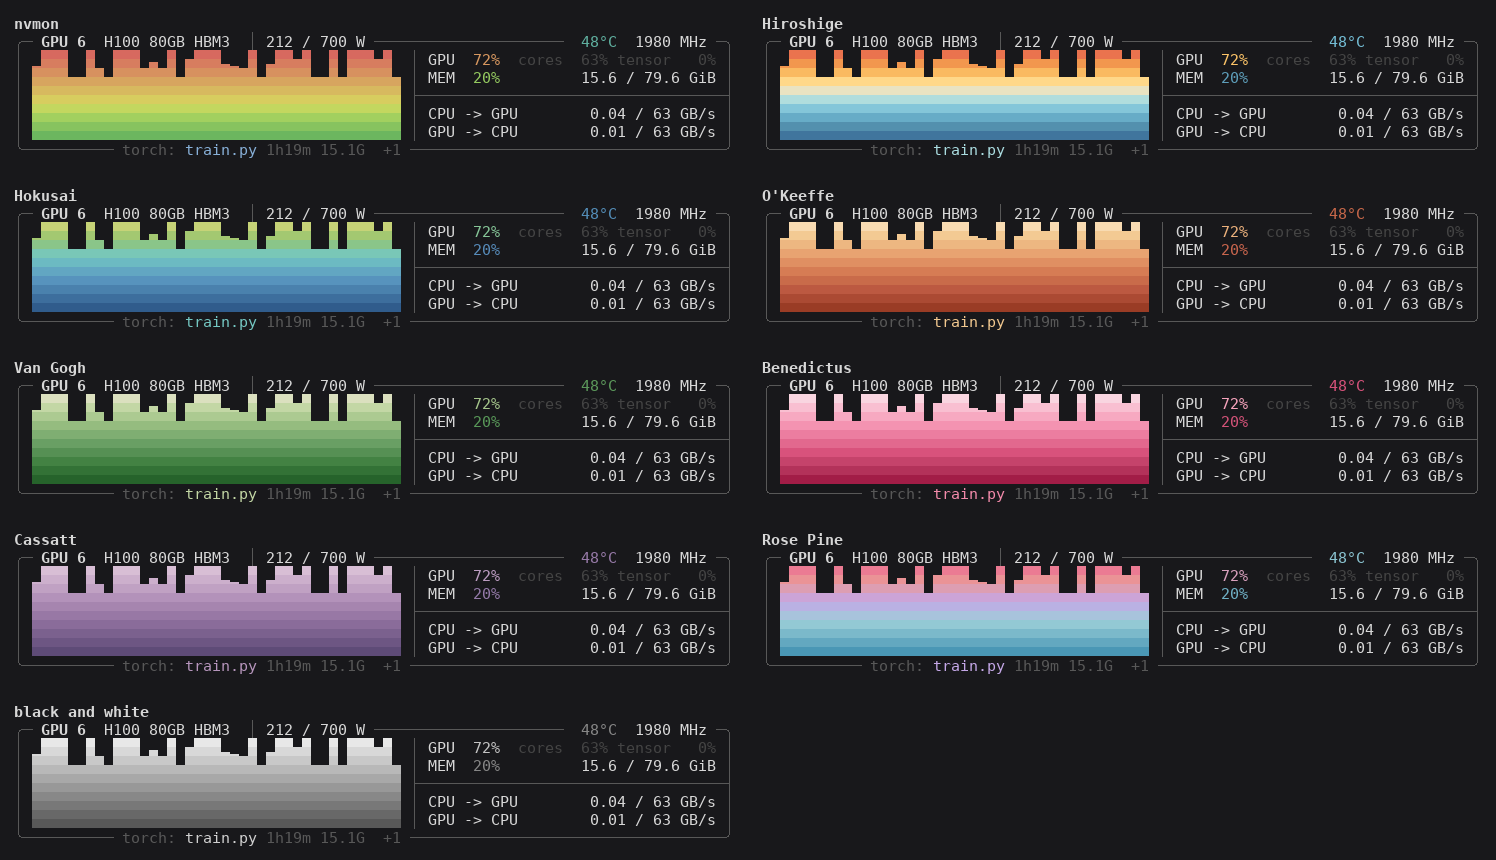
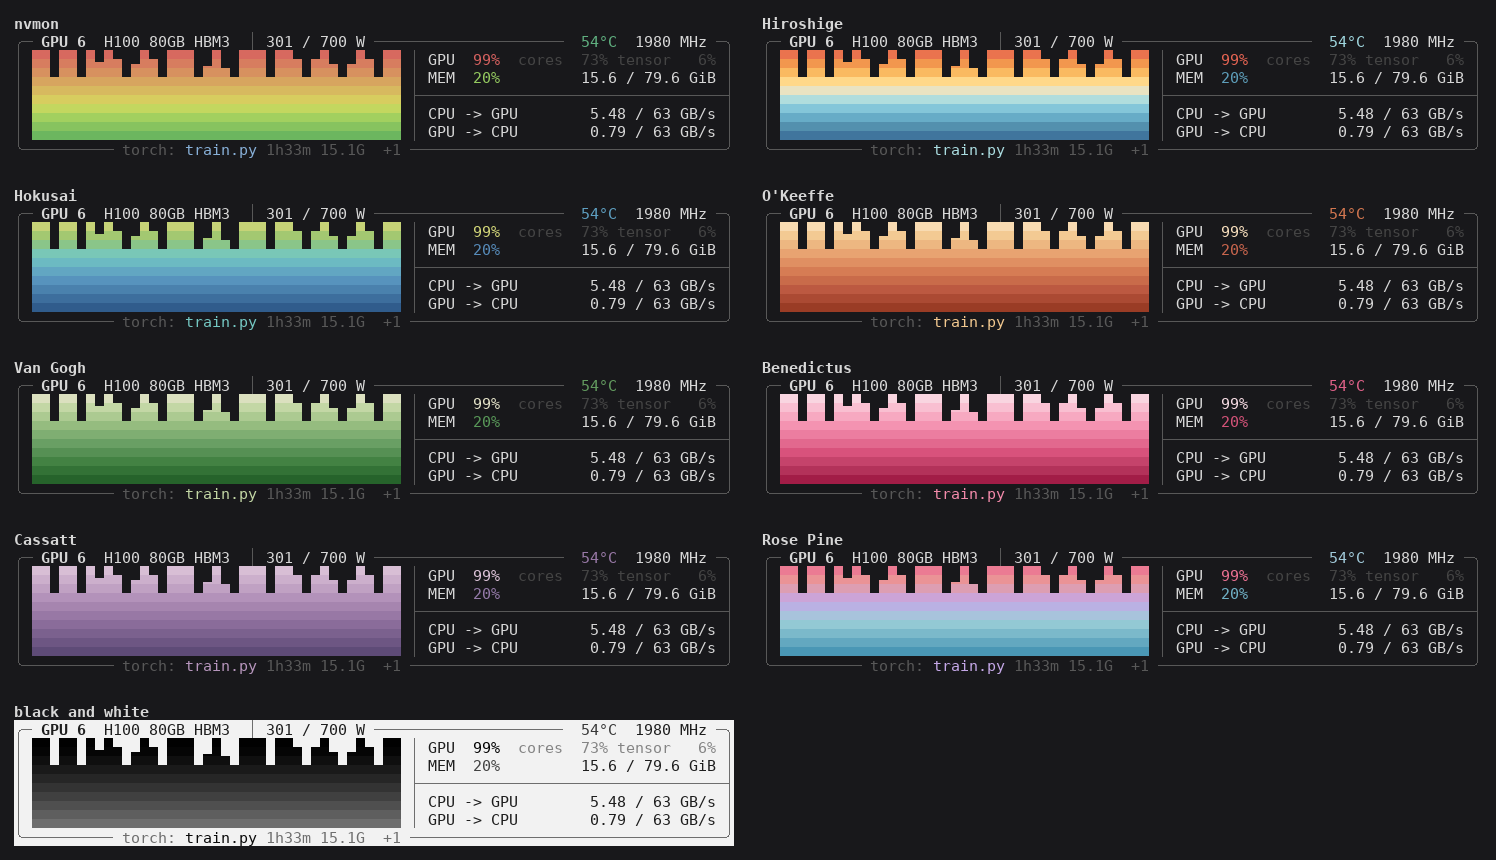
Black on white; a README that shows each view and the process list
The black and white theme puts every cell on white paper in ink, each color the gray of its lightness turned around. The README walks through a box, the four views, jobs and the process list with stills, the themes, and has a table of every key; docs/demo.py takes those stills, the version as released, and keeps one GIF.

diff --git a/docs/demo.py b/docs/demo.py
@@ -1,5 +1,5 @@
-"""Record nvmon on this machine's GPUs and write the README's GIFs, one per window size, and a picture of
-its themes:
+"""Record nvmon on this machine's GPUs and write the README's pictures: a GIF, stills
+of its views and of the process list, and one of its themes:
 
     uv run --with pillow docs/demo.py [SECONDS]
 
@@ -17,9 +17,28 @@ from PIL import Image, ImageDraw, ImageFont
 sys.path.insert(0, os.path.join(os.path.dirname(os.path.abspath(__file__)), ".."))
 import nvmon  # noqa: E402
 
-# (file, columns, rows, what is on: "list" = the process list with a job picked, "cards" = the processes in place of the graphs)
-SIZES = [("demo-wide.gif", 160, 31, None), ("demo-small.gif", 100, 30, None), ("demo-list.gif", 160, 56, "list"),
-         ("demo-cards.gif", 160, 31, "cards")]
+SIZES = [("demo-wide.gif", 160, 31)]  # (file, columns, rows)
+
+
+def biggest_job(view):
+    """The job most worth showing: one with a launcher (torchrun), the most memory."""
+    return max(view.jobs, key=lambda job: (job.launcher is not None, job.mem)).pid
+
+
+def listing(view):
+    view.listing, view.job, view.sort = True, biggest_job(view), ("util", True)
+
+
+def focus(view):
+    view.job, view.only = biggest_job(view), True
+
+
+# (file, columns, rows, what is set on the view)
+STILLS = [("view-processes.png", 160, 31, lambda view: setattr(view, "left", "processes")),
+          ("view-numbers.png", 160, 31, lambda view: setattr(view, "left", "numbers")),
+          ("view-brief.png", 160, 31, lambda view: setattr(view, "left", "brief")),
+          ("list.png", 160, 48, listing),
+          ("focus.png", 160, 31, focus)]
 FONT = "/usr/share/fonts/truetype/dejavu/DejaVuSansMono{}.ttf"
 CELL_W, CELL_H, PAD, SIZE = 9, 18, 14, 15
 BG, FG = (24, 24, 27), (215, 215, 215)
@@ -47,6 +66,7 @@ def anonymize():
 
     nvmon.Gpu._facts_of = facts
     nvmon.socket.gethostname = lambda: "gpu-node"
+    nvmon.__version__ = nvmon.__version__.split("+")[0]  # as released, not "+dev"
 
 
 def record(seconds, warm_up=70):
@@ -64,16 +84,10 @@ def record(seconds, warm_up=70):
         if tick < 0:
             time.sleep(max(0, 0.5 - (time.monotonic() - start)))
             continue
-        for name, cols, rows, mode in SIZES:
-            view = views[name]
-            if mode == "list" and tick == 0:  # the list open, the biggest job with a launcher picked
-                view.screen(gpus, cols, rows, [], None)
-                view.listing = True
-                view.job = max(view.jobs, key=lambda job: (job.launcher is not None, job.mem)).pid
-            view.left = "processes" if mode == "cards" else "graph"
-            frames[name].append(view.screen(gpus, cols, rows, nvmon.header(cols, 0.5, driver), None))
+        for name, cols, rows in SIZES:
+            frames[name].append(views[name].screen(gpus, cols, rows, nvmon.header(cols, 0.5, driver), None))
         time.sleep(max(0, 0.5 - (time.monotonic() - start)))
-    return frames, gpus
+    return frames, gpus, driver
 
 
 def palette256(n):
@@ -135,7 +149,7 @@ def picture(lines, cols, rows, fonts):
         for seg in line:
             text, style = seg[0], seg[1]
             fg, bg, bold = colors(style)
-            if bg != BG:
+            if bg != BG and text:
                 draw.rectangle([x0 + col * CELL_W, y, x0 + (col + len(text)) * CELL_W - 1, y + CELL_H - 1], fill=bg)
             for i, ch in enumerate(text):
                 x = x0 + (col + i) * CELL_W
@@ -170,18 +184,29 @@ def gallery(gpu, fonts, width=80):
     return image
 
 
+def stills(gpus, driver, fonts, here):
+    for name, cols, rows, setup in STILLS:
+        view = nvmon.View()
+        view.screen(gpus, cols, rows, [], None)  # the jobs, for setup to pick from
+        setup(view)
+        lines = view.screen(gpus, cols, rows, nvmon.header(cols, 0.5, driver), None)
+        picture(lines, cols, rows, fonts).save(os.path.join(here, name), optimize=True)
+        print(name, os.path.getsize(os.path.join(here, name)) // 1024, "KB")
+
+
 def main():
     seconds = float(sys.argv[1]) if len(sys.argv) > 1 else 20
     anonymize()
-    frames, gpus = record(seconds)
+    frames, gpus, driver = record(seconds)
     fonts = {False: ImageFont.truetype(FONT.format(""), SIZE), True: ImageFont.truetype(FONT.format("-Bold"), SIZE)}
     here = os.path.dirname(os.path.abspath(__file__))
-    for name, cols, rows, _ in SIZES:
+    for name, cols, rows in SIZES:
         pictures = [picture(lines, cols, rows, fonts) for lines in frames[name]]
         pictures = [p.quantize(colors=128, method=Image.Quantize.MEDIANCUT) for p in pictures]
         pictures[0].save(os.path.join(here, name), save_all=True, append_images=pictures[1:], duration=500,
                          loop=0, optimize=True)
         print(name, os.path.getsize(os.path.join(here, name)) // 1024, "KB")
+    stills(gpus, driver, fonts, here)
     busiest = max(gpus, key=lambda gpu: sum(gpu.history))
     gallery(busiest, fonts).save(os.path.join(here, "themes.png"), optimize=True)
     print("themes.png", os.path.getsize(os.path.join(here, "themes.png")) // 1024, "KB")

diff --git a/nvmon.py b/nvmon.py
@@ -83,14 +83,17 @@ def _nearest256(rgb):
 
 
 # Styles are written in 24-bit color and turned, as they are sent (restyle), into what the terminal shows:
-# 24-bit color or 256 colors, as color_mode finds; in gray, as the black and white theme has it.
+# 24-bit color or 256 colors, as color_mode finds; in gray, as the black and white theme has it: black on
+# white, every cell on PAPER in INK, every color the gray of its lightness turned around.
+PAPER, INK = (242, 242, 242), (30, 30, 30)
 COLOR_ARG = re.compile(r"\x1b\[([34])8;(?:2;(\d+);(\d+);(\d+)|5;(\d+))m")
 
 
 @lru_cache(maxsize=None)
 def restyle(style, mode, gray=False):
-    """`style` in color `mode`: "256" turns 24-bit colors into the palette's nearest. With `gray`, every color
-    first becomes the gray as light as it (OKLab lightness): the hue goes, the lightness stays."""
+    """`style` in color `mode`: "256" turns 24-bit colors into the palette's nearest. With `gray`, on PAPER
+    in INK, and every color first the gray as dark as it was light (OKLab lightness turned around): light
+    text on the dark screen becomes dark on the white one, and the busiest bars the darkest."""
     if mode == "truecolor" and not gray:
         return style
 
@@ -100,11 +103,15 @@ def restyle(style, mode, gray=False):
             return m.group(0)
         rgb = _palette_rgb(int(code)) if code else tuple(int(v) for v in m.group(2, 3, 4))
         if gray:
-            rgb = _from_oklab((_oklab(rgb)[0], 0, 0))
+            rgb = _from_oklab((1 - _oklab(rgb)[0], 0, 0))
+        return color(layer, rgb)
+
+    def color(layer, rgb):
         if mode == "256":
             return "\x1b[{}8;5;{}m".format(layer, _nearest256(rgb))
         return "\x1b[{}8;2;{};{};{}m".format(layer, *rgb)
-    return COLOR_ARG.sub(swap, style)
+    style = COLOR_ARG.sub(swap, style)
+    return color("4", PAPER) + color("3", INK) + style if gray else style
 
 
 def color_mode(truecolor):
@@ -162,7 +169,7 @@ class Theme(NamedTuple):
     temp: tuple       # style codes for 0 .. 100 °C
     accent: str
     selected: str     # the picked job: reverse video on the accent
-    gray: bool        # black and white: paint turns every color gray, as light as it was
+    gray: bool        # black on white: see restyle
 
 
 def theme(name, stops, accent, temp=None, gray=False):
@@ -201,7 +208,7 @@ THEMES = [
     theme("Cassatt", "#574571 #90719f #b695bc #dec5da", "#b695bc"),
     theme("Rose Pine", "#3e8fb0 #9ccfd8 #c4a7e7 #ea9a97 #eb6f92", "#c4a7e7"),
 ]
-# No hue, only lightness: dark gray when idle to near white when busy.
+# No hue, only lightness, black on white (see restyle): the lightest when idle, near black when busy.
 THEMES.append(theme("black and white", "#505050 #f0f0f0", "#d0d0d0", gray=True))
 THEME = THEMES[0]  # the one in use, set by View.screen before it draws
 SHOWS = "truecolor"  # what the terminal shows (color_mode), set with it

diff --git a/README.md b/README.md
@@ -4,30 +4,17 @@ A fancy NVIDIA GPU monitor for the terminal. Single Python file, no dependencies
 
 ![nvmon showing eight H100 GPUs in two columns](https://raw.githubusercontent.com/Han-DongHeun/nvmon/main/docs/demo-wide.gif)
 
-It fits the window. In a small one the boxes get shorter, and scroll once they no longer fit:
-
-![nvmon in a small window, scrolling through the GPUs](https://raw.githubusercontent.com/Han-DongHeun/nvmon/main/docs/demo-small.gif)
-
-`p` lists every job; a picked one stands out on the GPUs it uses:
-
-![nvmon with the process list open and a torchrun job picked](https://raw.githubusercontent.com/Han-DongHeun/nvmon/main/docs/demo-list.gif)
-
-`v` goes from graphs to each GPU's processes in their place, one a line with the command, to the
-numbers alone, to GPU and MEM alone. The wheel scrolls the processes, sideways too (tilted, with Shift, or ← →):
-
-![nvmon with the processes in place of the graphs](https://raw.githubusercontent.com/Han-DongHeun/nvmon/main/docs/demo-cards.gif)
-
 ## Install
 
 ```bash
 uv tool install nvmon    # or: pipx install nvmon
 ```
 
-No uv? [Install it](https://docs.astral.sh/uv/getting-started/installation/), or use `pip install nvmon` inside whichever environment you use.
+No uv? [Install it](https://docs.astral.sh/uv/getting-started/installation/), or use `pip install nvmon`
+inside whichever environment you use. On a server without internet, copy `nvmon.py` over and run it with
+any Python 3.6+.
 
-On a server without internet, copy `nvmon.py` over and run it with any Python 3.6+.
-
-## Usage
+## Start
 
 ```bash
 nvmon              # Esc, q or Ctrl+C to quit
@@ -36,44 +23,110 @@ nvmon -g 0,2,4-7   # only these GPUs
 ssh -t HOST nvmon  # over ssh: -t gives it a terminal
 ```
 
-Click a process, or press Tab, to pick its job: the GPUs it uses stand out, and `f` shows only those.
-`t` asks the job to stop (SIGTERM: it may save and exit), `k` ends it at once (SIGKILL); both ask for a
-`y` first. `p` lists every job with its utilization and command line; click a heading to sort by it.
-Click an empty spot to let the job go and close the list.
+## Reading a box
 
-The GPU numbers at the bottom left hide a GPU when clicked, and show it again; so does the number's
-key. `v` goes through graphs, processes, numbers only and GPU and MEM only (`V` back). `c` goes through the themes (`C` back): nvmon's own, then palettes
-from works by Hiroshige, Hokusai, O'Keeffe, Van Gogh, Bénédictus and Cassatt (as [MetBrewer](https://github.com/BlakeRMills/MetBrewer)
-has them) and the [Rosé Pine](https://rosepinetheme.com) theme's, then black and white. The theme,
-graphs on or off, the list's order and the GPUs hidden stay for the next run, for each computer you
-connect from (in `~/.config/nvmon/settings.json`). The keys work with a Korean keyboard in Hangul mode
-too (ㅂ quits). Hold Shift to select text with the mouse.
+Each GPU gets a box:
+
+- **Top edge**: the GPU's number and name, power drawn against its limit, temperature, fan and clock.
+  Warnings show here only when something is off: `SLOWED: power cap | too hot | hw brake` when the clock
+  is held back, `PCIe DEGRADED: x16 -> x8` when the card runs on fewer lanes than it supports.
+- **Graph**: utilization over time, the newest on the right, 0 % at the bottom and 100 % at the top.
+- **GPU**: how much of the time something ran on it. **cores / tensor** (H100 and newer): how much of
+  the chip that work kept busy, and how much of it was matrix math on the Tensor Cores. A GPU reads
+  100 % as soon as one small kernel runs all the time, while its cores may sit at 30 %.
+- **MEM**: memory in use. **CPU -> GPU** and **GPU -> CPU**: data sent over PCIe, against the link's
+  top speed.
+- **Bottom edge**: the processes on the GPU with run time and memory, grouped by account and conda
+  environment (your own account unlabelled). `+` opens the process list at this GPU.
+
+The bottom line has the GPU numbers (click one, or press its key, to hide that GPU or show it again)
+and the keys; a newer release, when there is one, with the command that updates your install.
+
+## Views: `v`
+
+`v` goes through four views, `V` back. The boxes go one under the other, side by side only when they
+would not all fit; in a small window they get shorter, then scroll (wheel, PgUp/PgDn).
+
+**Graphs**, as above.
+
+**Processes** in the graph's place, one a line: account, run time, memory, and the command line. The
+wheel over them scrolls them up and down; tilted, or with Shift, sideways, as do ← and →.
+
+![nvmon with each GPU's processes in place of its graph](https://raw.githubusercontent.com/Han-DongHeun/nvmon/main/docs/view-processes.png)
+
+**Numbers only**, and **GPU and MEM only**, for many GPUs in little room:
+
+![nvmon with the numbers alone](https://raw.githubusercontent.com/Han-DongHeun/nvmon/main/docs/view-numbers.png)
+
+![nvmon with GPU and MEM alone](https://raw.githubusercontent.com/Han-DongHeun/nvmon/main/docs/view-brief.png)
+
+## Processes and jobs: `p`
+
+A **job** is what runs as one: a launcher's workers (torchrun, deepspeed…) count as one job, a process on
+its own is one too.
+
+- **Pick** a job: click one of its processes, or press Tab (Tab and the arrows go on to the next). The
+  GPUs it uses stand out, the others fade, and the bottom line tells about it: account, GPUs,
+  utilization, memory, run time, launcher.
+- `f` shows only the GPUs the picked job uses, `f` again all of them; a double click does the same.
+- `p` lists every job: PID, account, GPUs, utilization, memory, run time, command line. Click a heading
+  to sort by it, again the other way round (or `s` for the next heading, `r` to reverse). ← and →
+  scroll the picked job's command. Click an empty spot, or press Esc, to let go.
+- `t` asks a job of yours to stop (SIGTERM: it may save and exit), `k` ends it at once (SIGKILL); both
+  ask for a `y` first, and nvmon checks the job is still the one you picked.
+
+The list, with the busiest job first and one picked:
+
+![nvmon with the process list open and a torchrun job picked](https://raw.githubusercontent.com/Han-DongHeun/nvmon/main/docs/list.png)
+
+The same job with `f`, its GPUs only:
+
+![nvmon showing only the two GPUs of the picked job](https://raw.githubusercontent.com/Han-DongHeun/nvmon/main/docs/focus.png)
+
+## Themes: `c`
+
+`c` goes through the themes, `C` back: nvmon's own; palettes from works by Hiroshige, Hokusai, O'Keeffe,
+Van Gogh, Bénédictus and Cassatt (as [MetBrewer](https://github.com/BlakeRMills/MetBrewer) has them);
+the [Rosé Pine](https://rosepinetheme.com) theme's; and black on white.
 
 ![nvmon's themes, one box in each](https://raw.githubusercontent.com/Han-DongHeun/nvmon/main/docs/themes.png)
 
-## What it shows
+## All keys
 
-- **GPU**: how much of the time something ran on it. **cores / tensor** (H100 and newer): how much
-  of the chip that work kept busy, and how much of it was matrix math on the Tensor Cores. A GPU
-  reads 100 % as soon as one small kernel runs all the time, while its cores may sit at 30 %.
-- **MEM**, data sent **CPU -> GPU** and **GPU -> CPU** against the link's top speed, power,
-  temperature, fan and clock.
-- Processes on each GPU with run time and memory, grouped by account and conda environment
-  (your own account unlabelled), script names for Python.
-- Warnings only when something is off: `SLOWED: power cap | too hot | hw brake` when the clock is held back,
-  `PCIe DEGRADED: x16 -> x8` when the card runs on fewer lanes than it supports.
+| Key | Does |
+|---|---|
+| `v` / `V` | next / previous view: graphs, processes, numbers only, GPU and MEM only |
+| `c` / `C` | next / previous theme |
+| `p` | the process list, open or closed |
+| click, Tab, ↑ ↓ | pick a job |
+| `f`, double click | only the picked job's GPUs, or all again |
+| `t`, `k`, then `y` | stop (SIGTERM) or kill (SIGKILL) the picked job |
+| click a heading, `s`, `r` | sort the list by it, by the next heading, the other way round |
+| wheel, ← → | scroll the processes, the list, the GPUs; sideways the commands |
+| PgUp, PgDn | scroll the GPUs |
+| `0`-`9`, click a number | hide a GPU, or show it again |
+| Esc | a step back: all GPUs, the list closed, no job picked, then quit |
+| `q`, Ctrl+C | quit |
 
-## Notes
+The keys work with a Korean keyboard in Hangul mode too (ㅂ quits). Hold Shift to select text with the
+mouse.
 
-- Needs an NVIDIA driver.
-- On Windows, run it in Windows Terminal; Git Bash's default window is not a terminal to Python.
+## It remembers
+
+The view, the theme, the list's order and the GPUs hidden stay for the next run, for each computer you
+connect from (the address ssh comes from), in `~/.config/nvmon/settings.json`. Delete the file to start
+afresh.
+
+## Terminals
+
 - nvmon asks the terminal how it draws. One that puts line and block characters two cells wide (Xshell,
   PuTTY and the like, set up for Korean, Chinese or Japanese) gets boxes and graphs drawn in ASCII. One
   that does not say it shows 24-bit color gets 256 colors, which look nearly the same.
 - Boxes still broken: the terminal moves on one cell, but its font draws the characters two wide. Pick a
-  font whose line characters are one cell wide, and make sure the encoding is UTF-8.
-- When a newer release is out, the bottom line says so, with the command that updates your install.
-  nvmon asks PyPI once at start; `NVMON_NO_UPDATE_CHECK=1` turns that off.
+  font whose line characters are one cell wide (D2Coding, Cascadia Mono, JetBrains Mono, DejaVu Sans
+  Mono), and make sure the encoding is UTF-8.
+- On Windows, run it in Windows Terminal; Git Bash's default window is not a terminal to Python.
+- nvmon asks PyPI once at start whether a newer release is out; `NVMON_NO_UPDATE_CHECK=1` turns that off.
 
 ## License
 

diff --git a/CHANGELOG.md b/CHANGELOG.md
@@ -3,6 +3,12 @@
 What changes for you in each release. The same notes appear on the
 [releases page](https://github.com/Han-DongHeun/nvmon/releases).
 
+## Unreleased
+
+- The black and white theme is black on white: the whole screen on white, every color the gray as dark
+  as it was light, the busiest bars the darkest.
+- The README shows each view and the process list, and lists every key.
+
 ## 0.3.0
 
 - Processes: click one, or press Tab, to pick its job (a torchrun job's workers count as one). The GPUs
